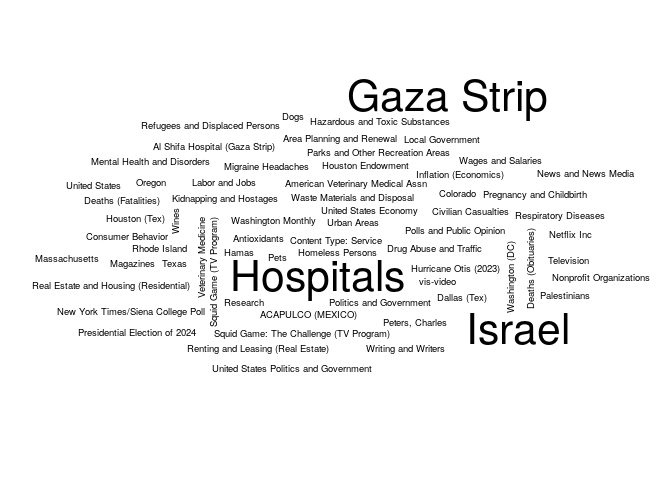
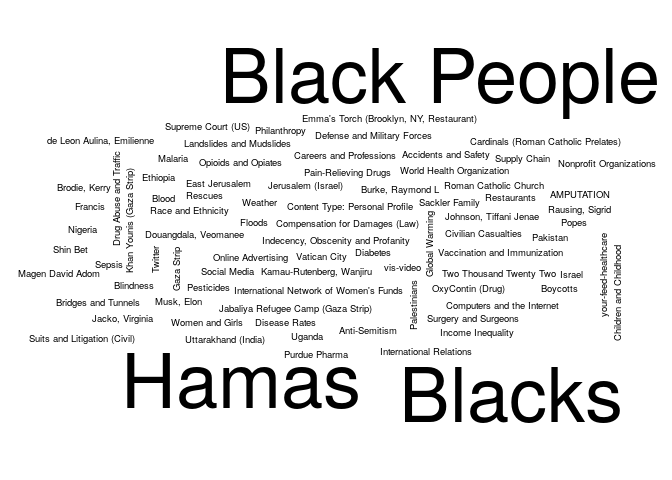
Updating the NYT report

Changed region(s): [[0.0312, 0.0938, 1.0, 0.9062]]

diff --git a/03-nytimes/README.md b/03-nytimes/README.md
@@ -5,7 +5,7 @@ The following is an example of how to use the [NYTimes
 API](https://developer.nytimes.com/) to get a list of articles related
 to a particular term. Here we are searching articles that include the
 term `"health"`, and that were published up to seven days ago since
-2023-11-27.
+2023-12-04.
 
 ``` r
 # Preparing a function to use the GET method with the NYTimes API
@@ -83,25 +83,25 @@ colnames(tab) <- c("Keyword", "# Articles")
 knitr::kable(tab, row.names = FALSE)
 ```
 
-| Keyword                          | \# Articles |
-|:---------------------------------|------------:|
-| Israel-Gaza War (2023- )         |          15 |
-| Gaza Strip                       |          10 |
-| Hospitals                        |          10 |
-| Israel                           |          10 |
-| ACAPULCO (MEXICO)                |           5 |
-| Al Shifa Hospital (Gaza Strip)   |           5 |
-| American Veterinary Medical Assn |           5 |
-| Antioxidants                     |           5 |
-| Area Planning and Renewal        |           5 |
-| Civilian Casualties              |           5 |
-| Colorado                         |           5 |
-| Consumer Behavior                |           5 |
-| Content Type: Service            |           5 |
-| Dallas (Tex)                     |           5 |
-| Deaths (Fatalities)              |           5 |
-| Deaths (Obituaries)              |           5 |
-| Dogs                             |           5 |
-| Drug Abuse and Traffic           |           5 |
-| Hamas                            |           5 |
-| Hazardous and Toxic Substances   |           5 |
+| Keyword                             | \# Articles |
+|:------------------------------------|------------:|
+| Black People                        |          10 |
+| Blacks                              |          10 |
+| Deaths (Fatalities)                 |          10 |
+| Hamas                               |          10 |
+| Israel-Gaza War (2023- )            |          10 |
+| Refugees and Displaced Persons      |          10 |
+| your-feed-science                   |          10 |
+| Accidents and Safety                |           5 |
+| AMPUTATION                          |           5 |
+| Anti-Semitism                       |           5 |
+| Blindness                           |           5 |
+| Blood                               |           5 |
+| Boycotts                            |           5 |
+| Bridges and Tunnels                 |           5 |
+| Brodie, Kerry                       |           5 |
+| Burke, Raymond L                    |           5 |
+| Cardinals (Roman Catholic Prelates) |           5 |
+| Careers and Professions             |           5 |
+| Children and Childhood              |           5 |
+| Civilian Casualties                 |           5 |
